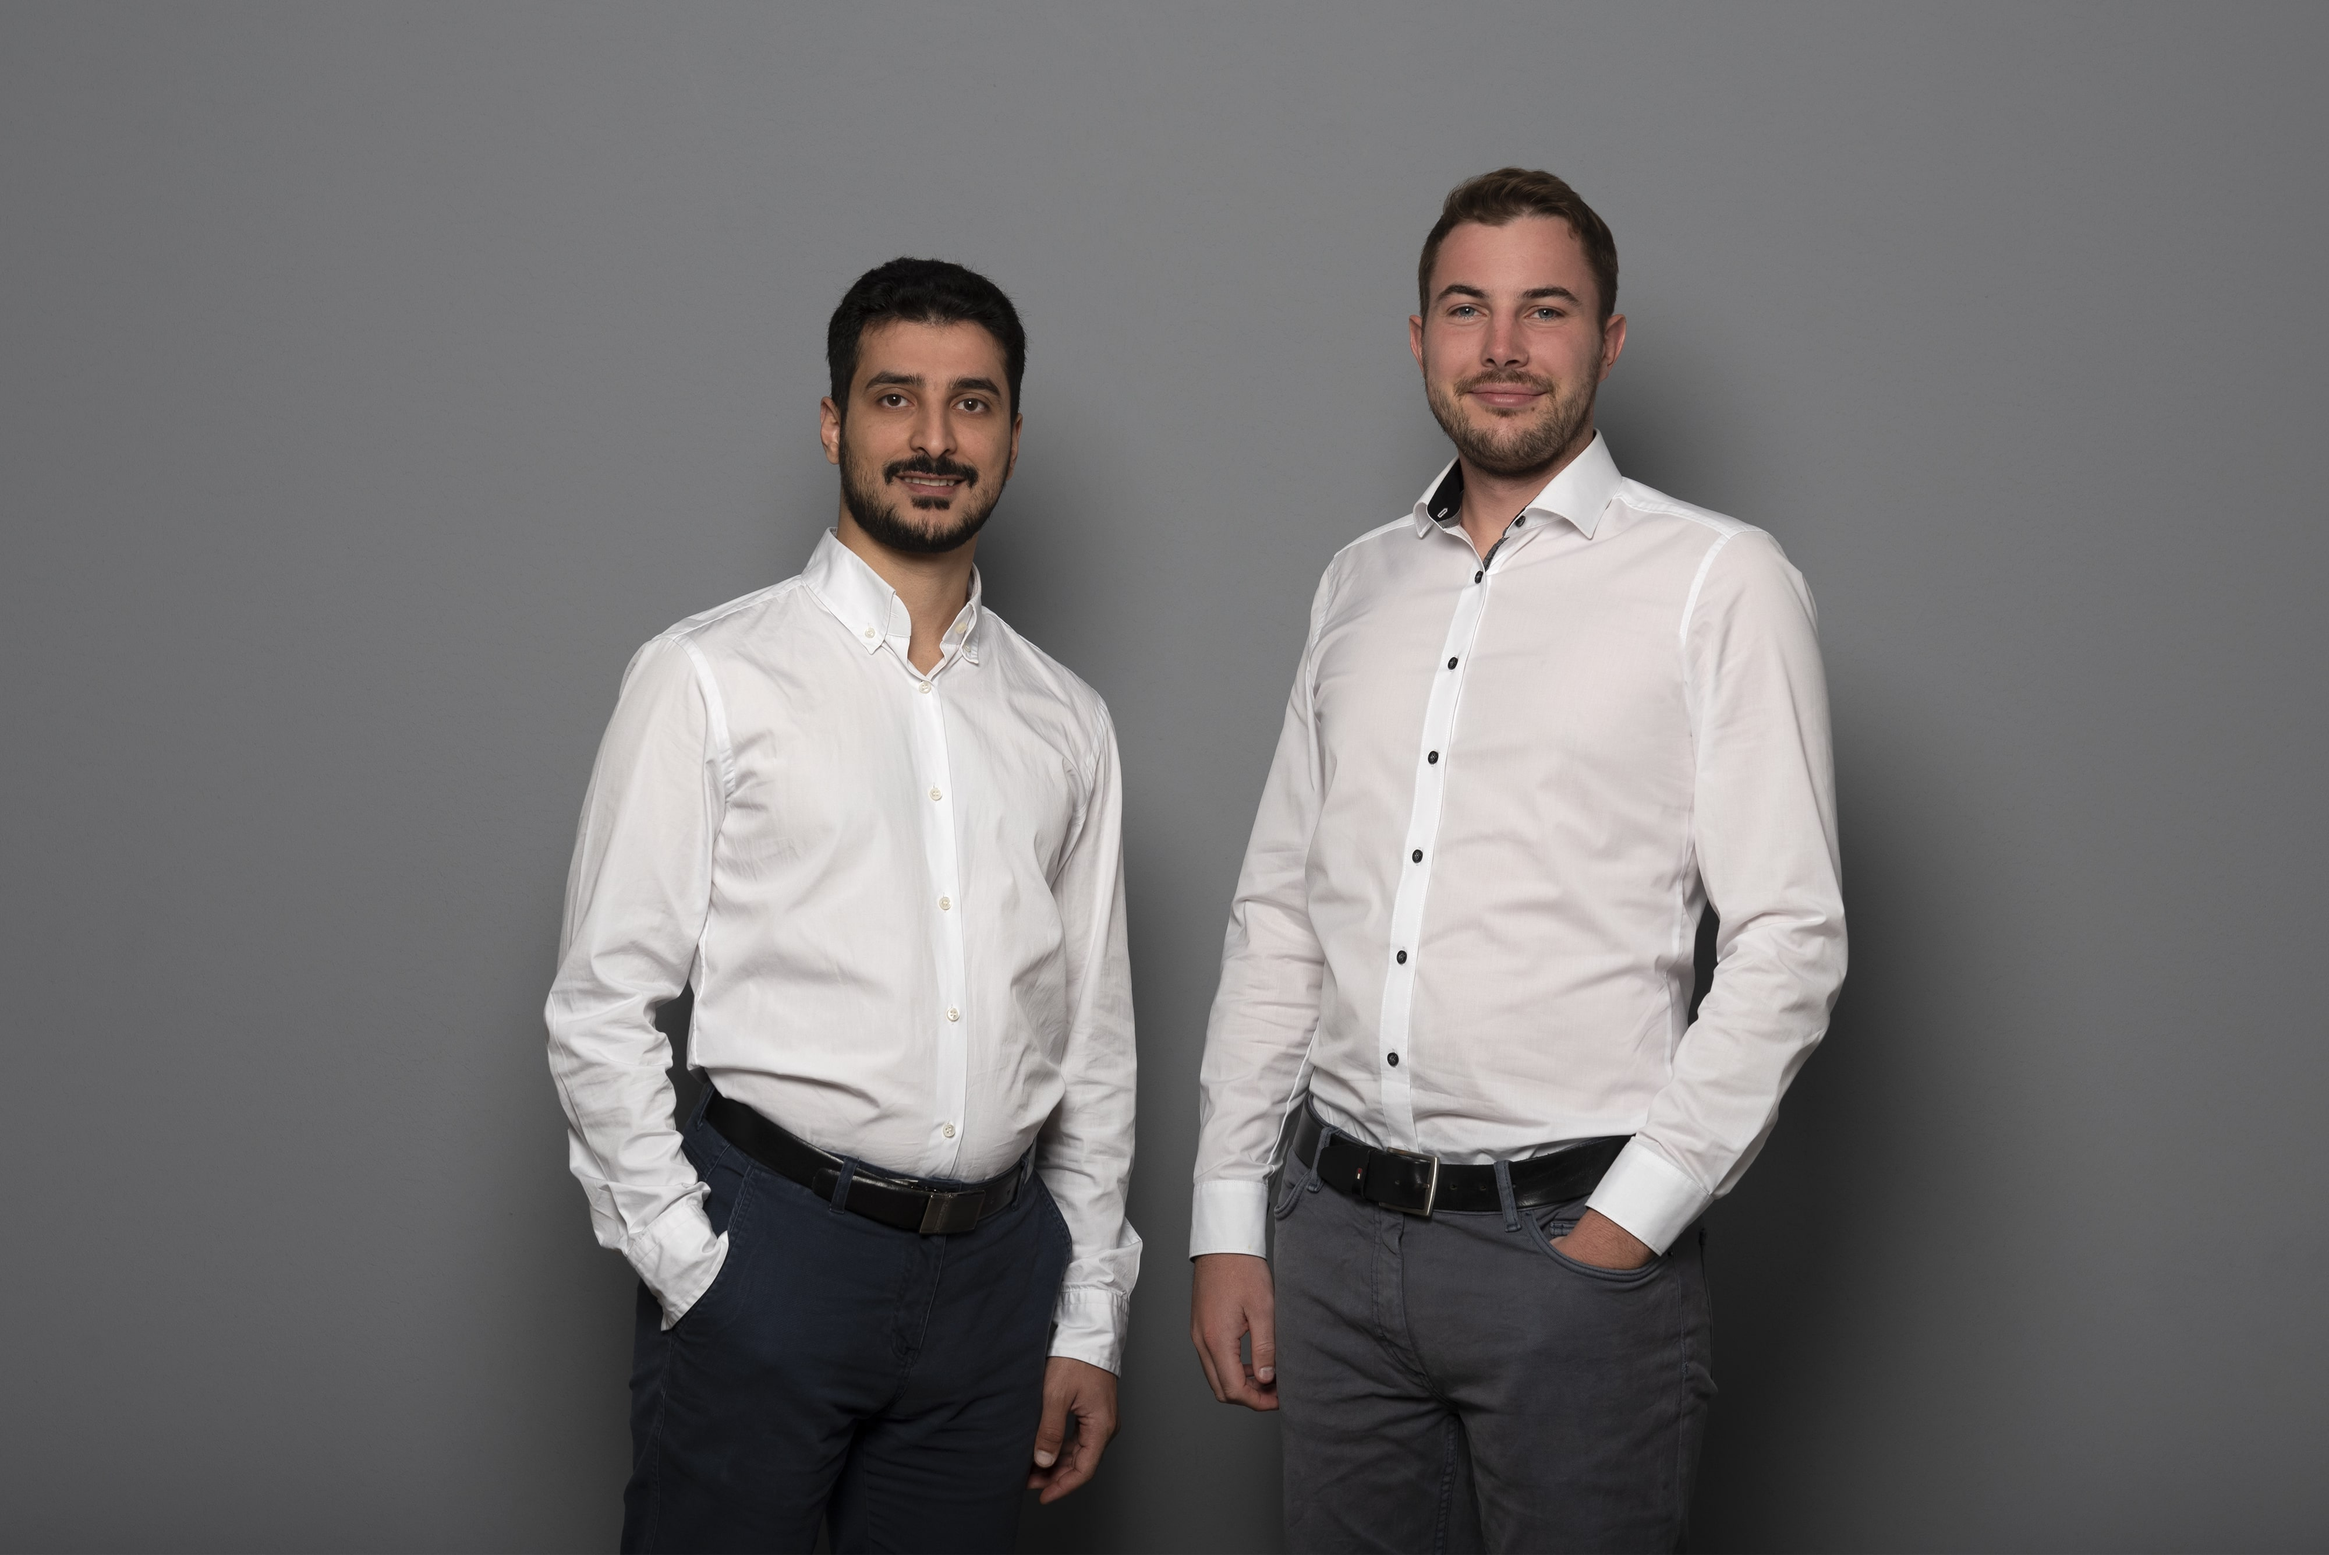
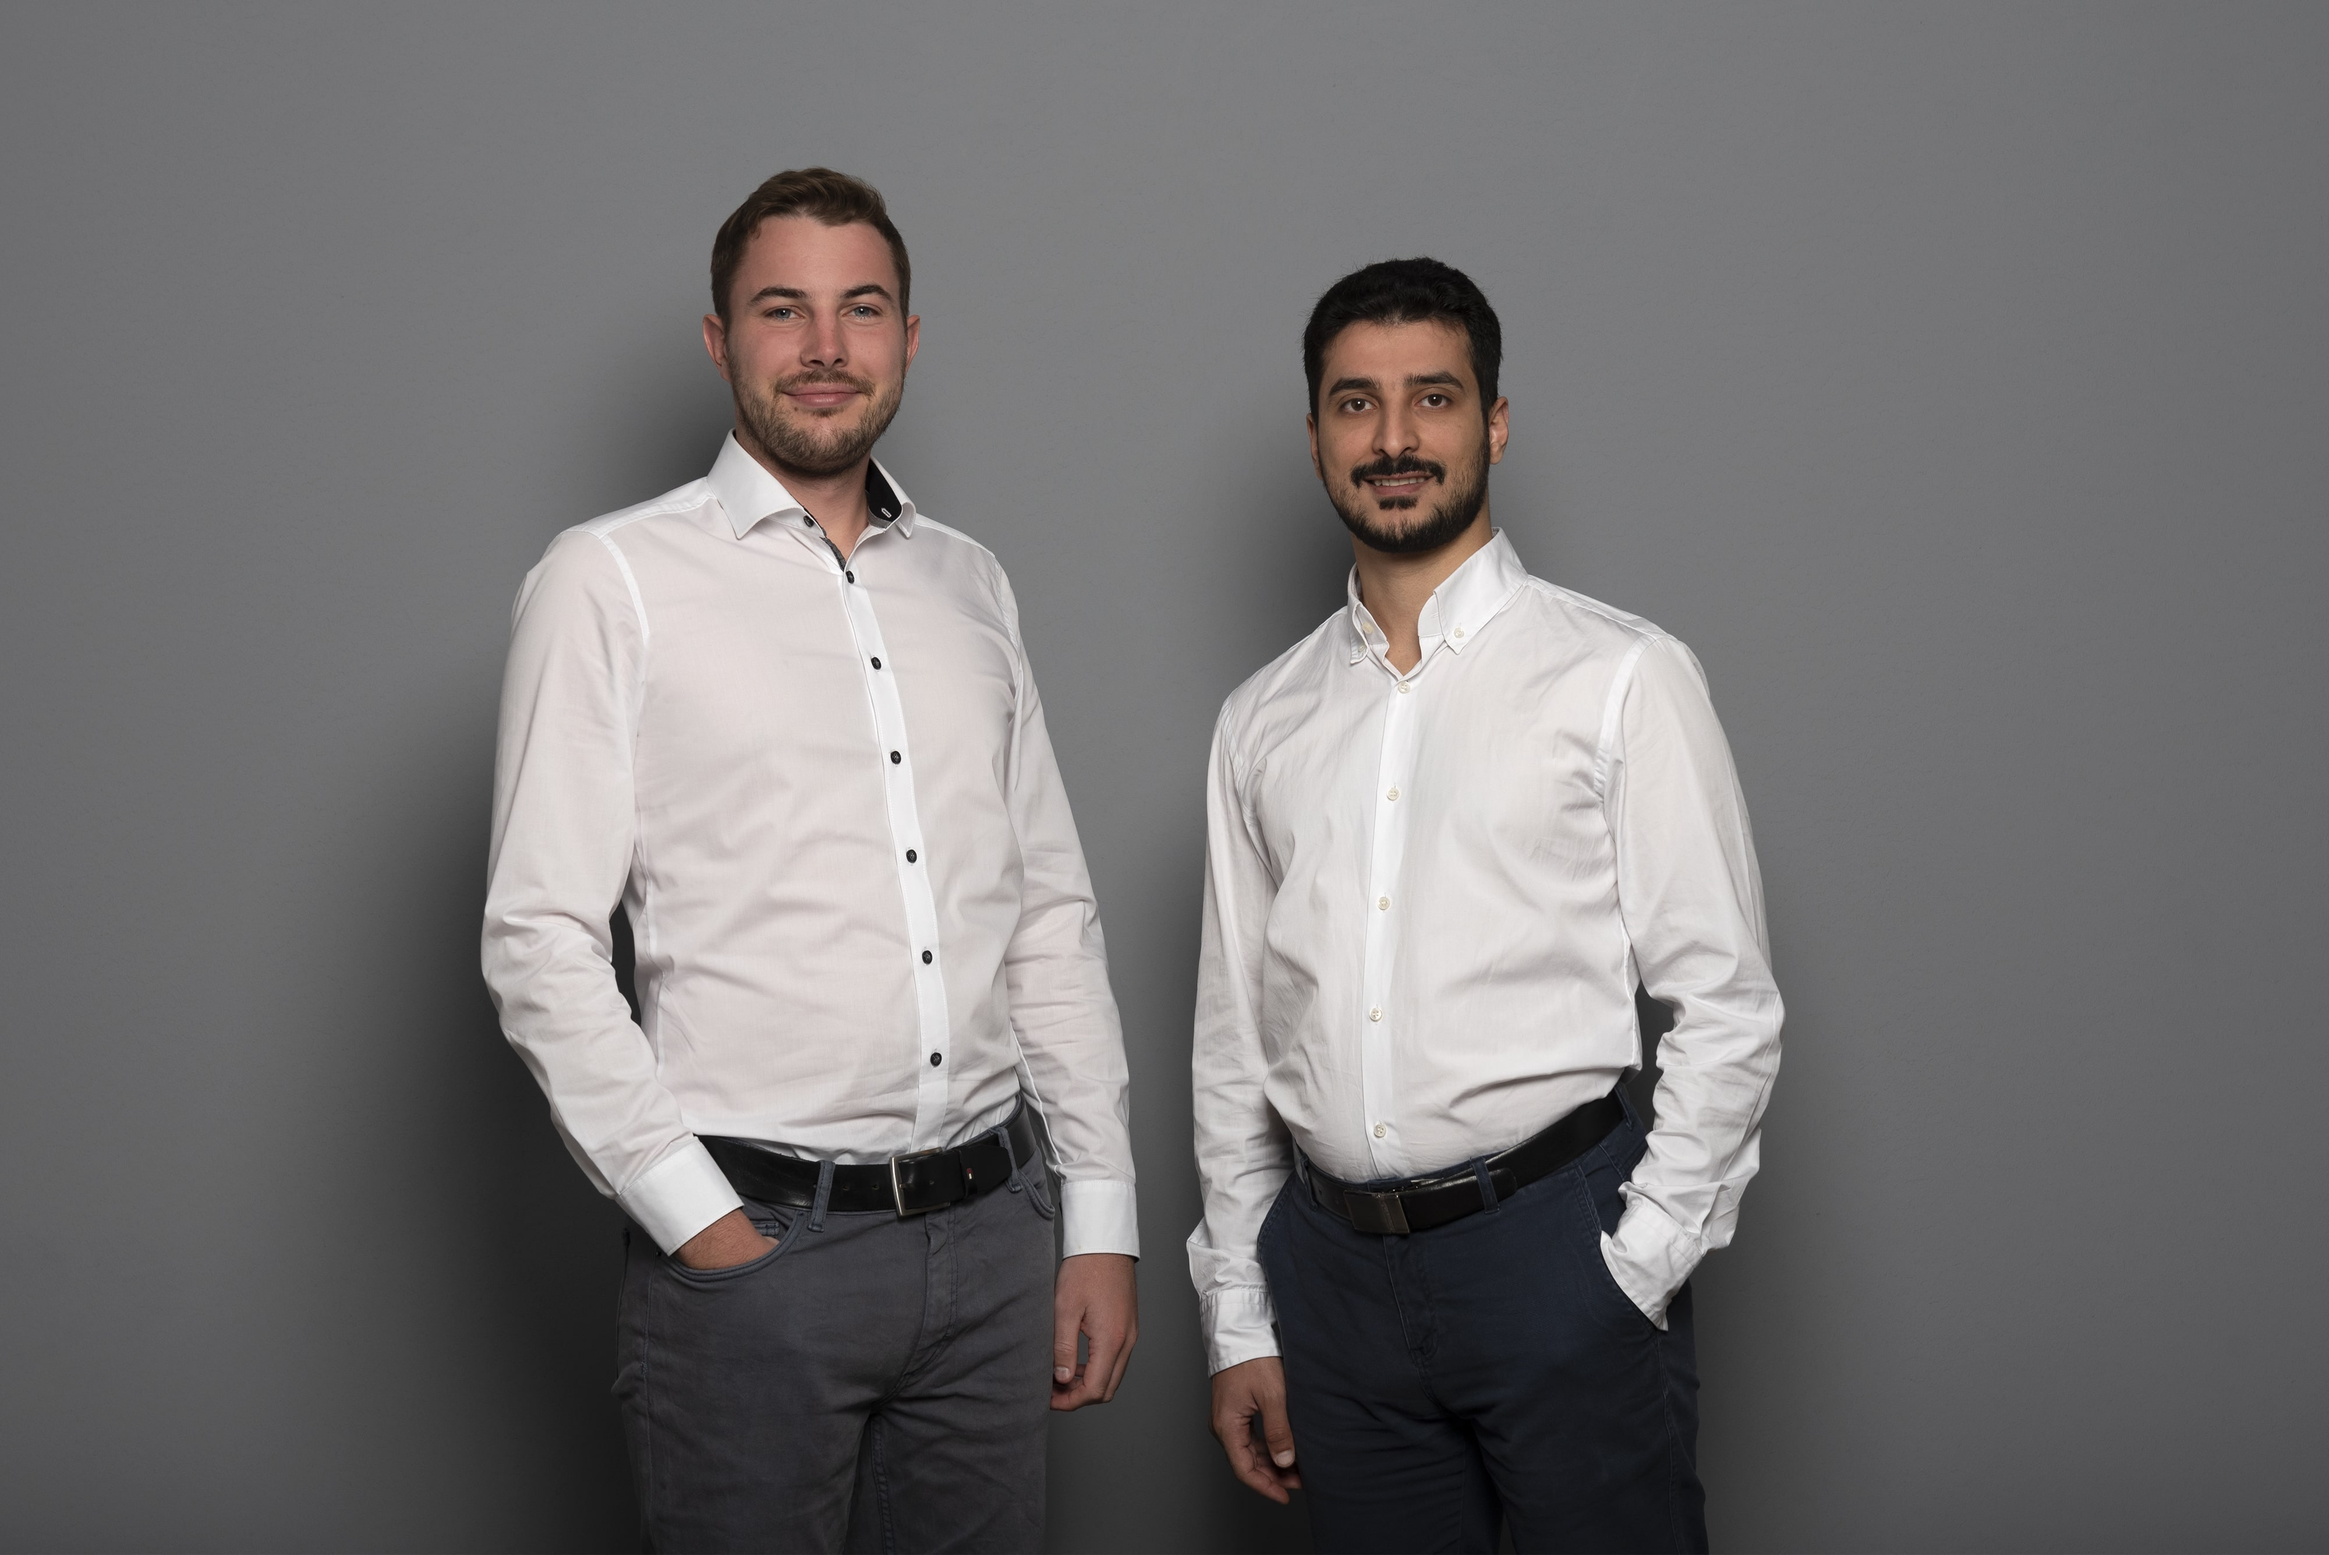
updated links and team page

Changed region(s): [[0.125, 0.0933, 0.875, 1.0]]

diff --git a/content/_index.md b/content/_index.md
@@ -10,11 +10,11 @@ productsSection:
   products:
     - name: Microsoft 365 as a Service
       description: 365 bietet die Grundlage zur Digitalisierung Ihres Unternehmens
-      url: /produkte/paperless
+      url: /produkte/microsoft-365
       icon: <path stroke-linecap="round" stroke-linejoin="round" d="M2.25 15a4.5 4.5 0 004.5 4.5H18a3.75 3.75 0 001.332-7.257 3 3 0 00-3.758-3.848 5.25 5.25 0 00-10.233 2.33A4.502 4.502 0 002.25 15z" />
     - name: Cloud Telefonanlage
       description: Nutzen Sie die Vorteile einer modernen Telefonanlage aus der Cloud
-      url: /produkte/paperless
+      url: /produkte/telefonanlage
       icon: <path stroke-linecap="round" stroke-linejoin="round" d="M2.25 6.75c0 8.284 6.716 15 15 15h2.25a2.25 2.25 0 002.25-2.25v-1.372c0-.516-.351-.966-.852-1.091l-4.423-1.106c-.44-.11-.902.055-1.173.417l-.97 1.293c-.282.376-.769.542-1.21.38a12.035 12.035 0 01-7.143-7.143c-.162-.441.004-.928.38-1.21l1.293-.97c.363-.271.527-.734.417-1.173L6.963 3.102a1.125 1.125 0 00-1.091-.852H4.5A2.25 2.25 0 002.25 4.5v2.25z" />
     - name: Paperless Dokumenten-Management
       description: Haben Sie Ihre Post und Dokumente immer digital griffbereit

diff --git a/content/ueber-uns.md b/content/ueber-uns.md
@@ -6,13 +6,13 @@ teamSection:
   description: Wir sind ein dynamisches und junges Team, welches Ihnen bei der Digitalisierung Ihres Unternehmens mit tatendrang zur Seite steht.
   members:
     - name: Hashem Mahmoud
-      role: Geschäftsführung
+      role: Geschäftsführer
       specialty: Informationssicherheit
-      image: https://profile-images.xing.com/images/ef2bdacbea9777e9ca72e6768dae5d3c-4/hashem-mahmoud.256x256.jpg
+      image: /content/team/hashem.jpg
     - name: Henry Akmann
-      role: Technische Geschäftsführung
+      role: Technischer Geschäftsführer
       specialty: Softwareentwicklung
-      image: https://avatars.githubusercontent.com/u/14221837
+      image: /content/team/henry.jpg
 ---
 
 # Über uns
